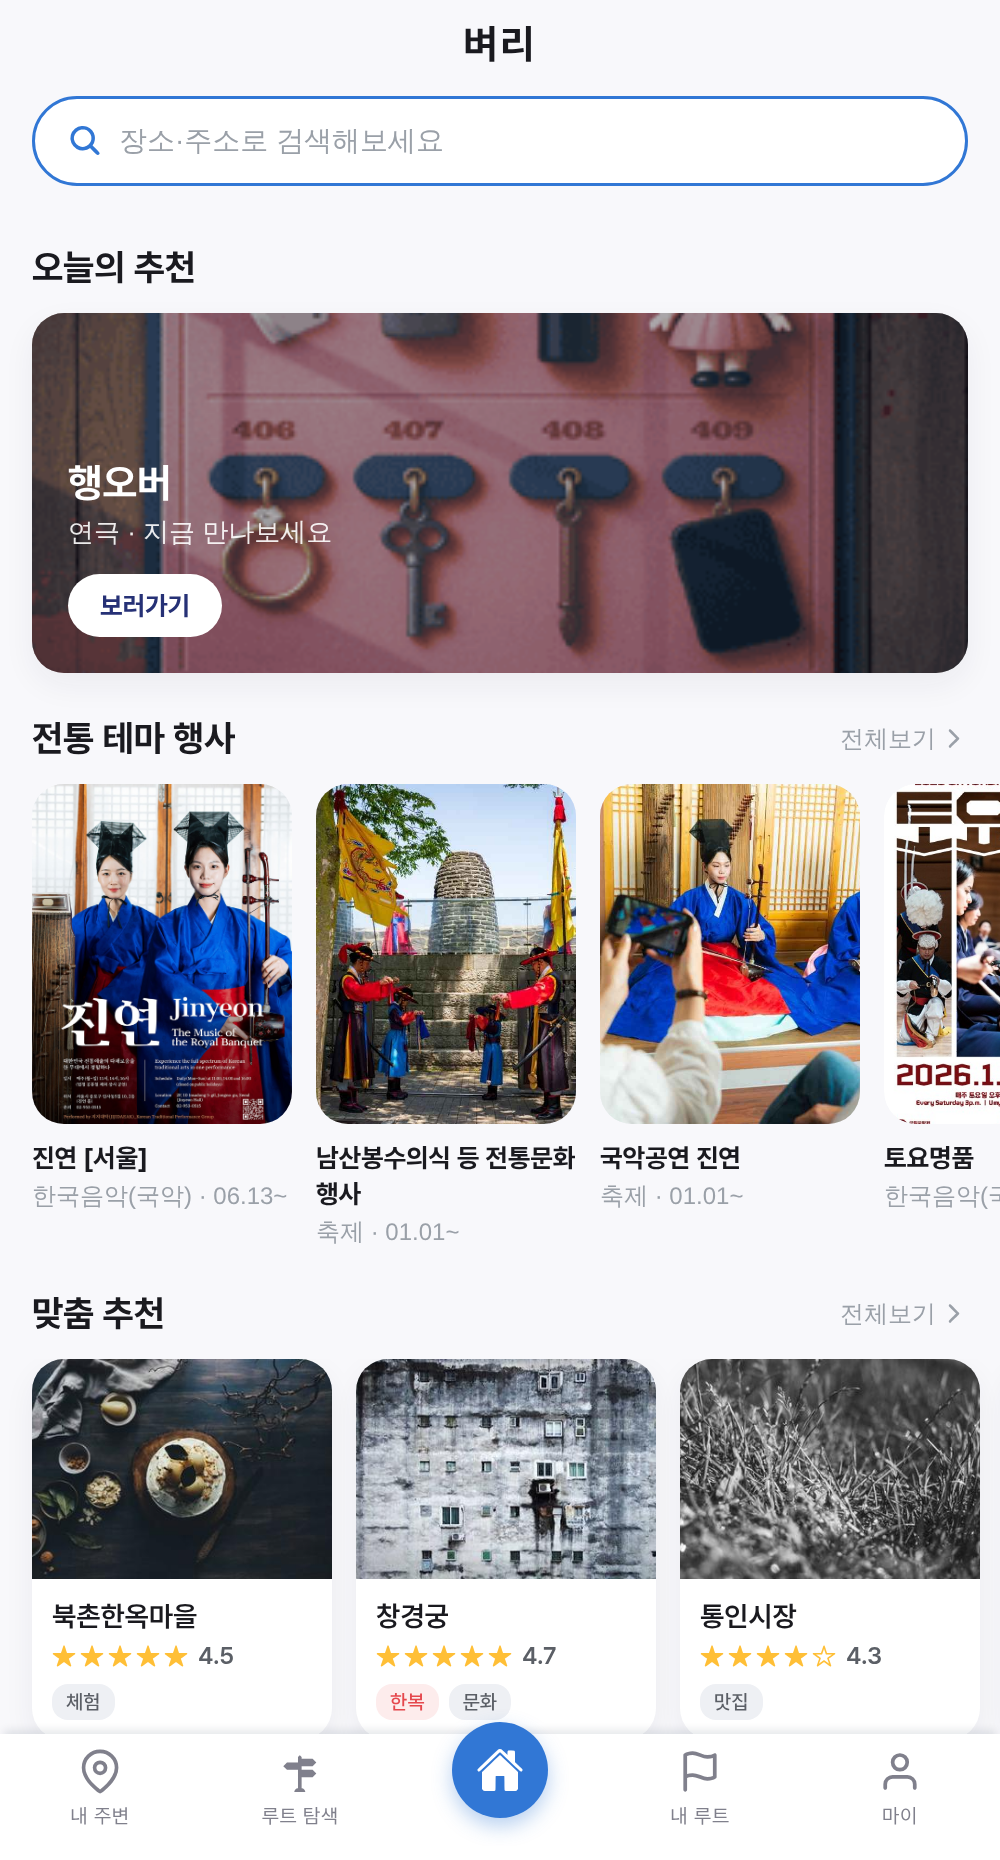
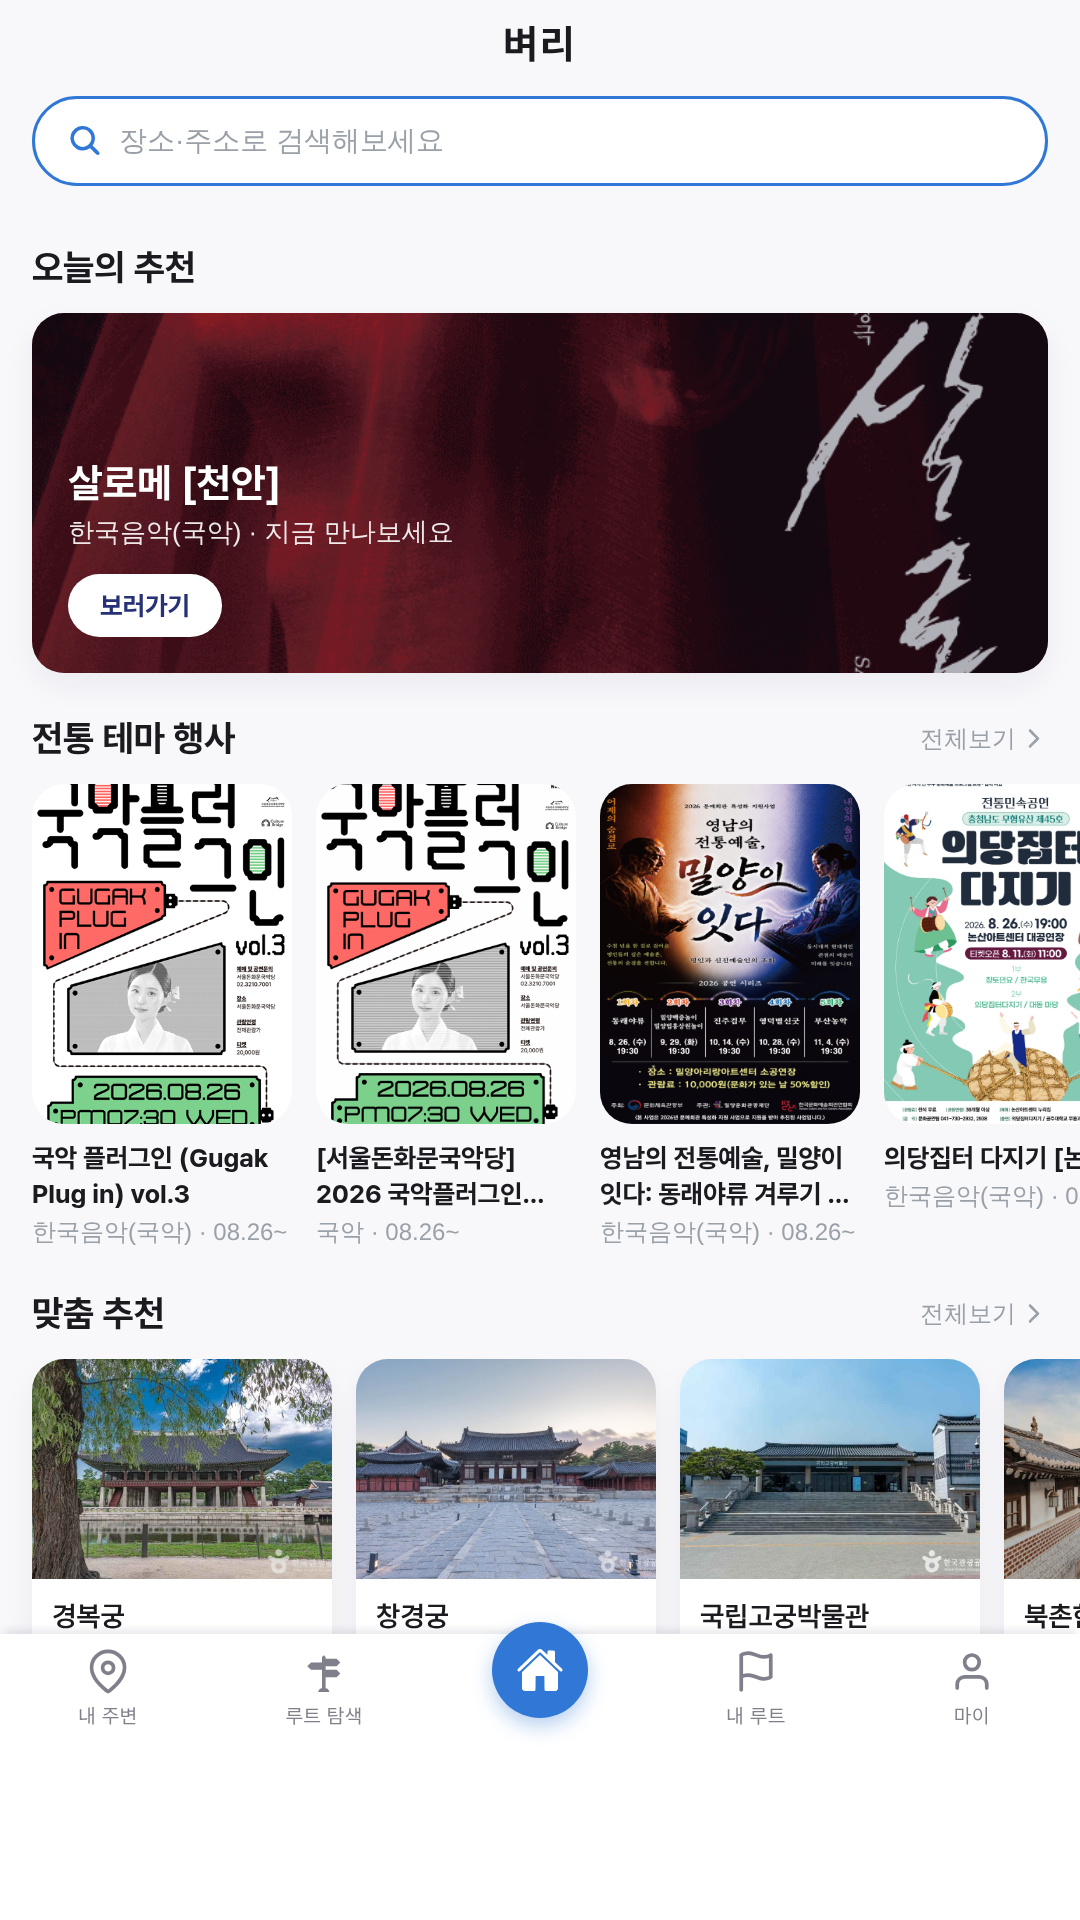
fix: 운영에 남아 있던 개발용 더미 데이터 제거 + 스토어 자산 규격 교정 (#21)
* fix: 운영 DB에 남아 있던 개발용 더미 데이터 제거

`V2__seed.sql`의 개발용 시드가 Flyway로 운영까지 적용돼 사용자에게
사실이 아닌 값이 보이고 있었다.

- 평점·리뷰 수: 경복궁 4.8/1320, 창경궁 4.7/860 등 근거 없는 숫자.
  실제 `reviews`에는 2건뿐이라, 사용자가 리뷰를 하나 쓰면
  `ReviewService.recalc()`가 실제값으로 덮어써 1320 → 1 로 급락했다.
- 이미지: `picsum.photos` 랜덤 스톡. 창경궁 자리에 콘크리트 건물,
  북촌한옥마을에 음식 사진이 뜨는 식으로 실제 장소와 무관했다.

V14 값 정리 / V15 실제 사진 연결 / V16 코스 대표 사진으로 나눴다.
시드 행 자체는 지우지 않는다 — 사용자의 여행일정 19건·즐겨찾기·리뷰가
이미 참조하고 있어 삭제하면 그 데이터가 함께 날아간다. 같은 장소의
TourAPI 행이 이미 갖고 있는 한국관광공사 사진을 연결해 주는 데 그친다.

더미를 걷어내자 그 값에 기대 채워져 있던 화면들이 드러나 함께 고쳤다.

- `Rating`: 리뷰가 없을 때 빈 별 5개 + "0.0"이 뜨던 것을 "아직 평가 없음"으로.
  평점이 낮다는 뜻으로 읽히던 표시였다.
- 지도 마커: 평점이 없으면 "0.0" 대신 카테고리를 보여준다.
- `VenueRepository.search` / `PerformanceRepository.search`: `order by`가
  없어 페이지 간 중복·누락이 생길 수 있었다. 사진(포스터) 있는 것 →
  평점·최근 순으로 고정하고 id로 동점을 깬다.
- 홈 배너: 전통문화 앱인데 클래식 공연이 대문에 걸렸다. 전통 행사를
  우선 노출하고, 진행 중인 게 없을 때만 일반 공연으로 대체한다.
  배너에 건 공연이 바로 아래 목록에 또 나오던 중복도 제거.

Claude-Session: https://claude.ai/code/session_0189LLCe4HXZJT526WbUcYHm

* chore(store): 스토어 자산 규격 교정 및 재생성

Play Console 등록정보 화면이 요구하는 규격에 맞지 않았다.

- 스크린샷 1000×1860(비율 1:1.86) → **1080×1920**. Play는 16:9 또는
  9:16만 받고, 프로모션 자격에는 각 변 1,080px 이상 4장이 필요하다.
  1000px라 8px 모자랐다.
- 앱 아이콘 512×512 추가. 필수 항목인데 없었다.
- 그래픽 이미지: 기기 틀 안쪽 비율이 화면과 달라 `object-fit:cover`가
  앱 화면 위아래를 잘라냈고, `rotate`가 바운딩 박스를 키워 기기가
  캔버스 밖으로 삐져나갔다. 틀을 9:16으로 맞추고 회전을 없애
  세 대 모두 화면 전체가 캔버스 안에 들어오게 했다.

스크린샷은 더미 데이터를 걷어낸 뒤 다시 찍은 것이라 실제 사진과
"아직 평가 없음" 표시가 반영돼 있다.
[…]

diff --git a/docs/store/feature-graphic.html b/docs/store/feature-graphic.html
@@ -34,7 +34,7 @@
   .wrap { position:relative; height:100%; display:flex; align-items:center; }
 
   /* ── 좌측 카피 ── */
-  .left { width:474px; padding-left:66px; }
+  .left { width:430px; padding-left:60px; }
   .brandrow { display:flex; align-items:center; gap:16px; margin-bottom:16px; }
   .icon { width:66px; height:66px; border-radius:19px; object-fit:cover;
     box-shadow:0 8px 20px rgba(31,38,76,.18); }
@@ -49,17 +49,20 @@
     border-radius:999px; padding:8px 15px; white-space:nowrap; }
   .chip.hot { color:#fff; background:#263176; border-color:#263176; }
 
-  /* ── 우측 단말 ── */
-  .phones { position:absolute; left:498px; top:0; width:526px; height:500px; }
-  .ph { position:absolute; border-radius:30px; background:#0E1330;
-    padding:7px; box-shadow:0 24px 48px rgba(23,29,66,.30); }
-  .ph img { display:block; border-radius:24px; width:100%; height:100%; object-fit:cover;
-    object-position:top center; }
+  /* ── 우측 단말 ──
+     핵심: 기기 안쪽 영역의 비율을 스크린샷과 똑같이 9:16으로 맞춘다.
+     그래야 object-fit:cover가 잘라내는 부분 없이 앱 화면 전체를 보여준다.
+     (이전 판은 4:5 남짓한 틀에 세로로 긴 화면을 끼워 넣어 위아래가 잘렸다.)
+     회전도 쓰지 않는다 — 회전은 바운딩 박스를 키워 캔버스 밖으로 삐져나갔다. */
+  .phones { position:absolute; left:0; top:0; width:1024px; height:500px; }
+  .ph { position:absolute; border-radius:26px; background:#0E1330;
+    padding:6px; box-shadow:0 20px 44px rgba(23,29,66,.28); }
+  .ph img { display:block; border-radius:20px; width:100%; height:100%; object-fit:cover; }
 
-  /* 겹쳐 배치 — 가운데를 가장 크고 앞에 */
-  .p1 { width:180px; height:366px; left:6px;   top:70px; transform:rotate(-9deg);   z-index:1; }
-  .p2 { width:206px; height:418px; left:160px; top:41px; transform:rotate(-1.5deg); z-index:3; }
-  .p3 { width:180px; height:366px; left:322px; top:66px; transform:rotate(7deg);    z-index:2; }
+  /* 셋 다 캔버스 안에 완전히 들어온다(top ≥ 43, bottom ≤ 457, right ≤ 995). */
+  .p1 { width:206px; height:357px; left:505px; top:71px; z-index:1; }
+  .p2 { width:238px; height:414px; left:631px; top:43px; z-index:3; }
+  .p3 { width:206px; height:357px; left:789px; top:71px; z-index:2; }
 </style>
 </head>
 <body>

diff --git a/apps/app/src/app/(tabs)/index.tsx b/apps/app/src/app/(tabs)/index.tsx
@@ -23,7 +23,10 @@ export default function HomeScreen() {
   const [keyword, setKeyword] = useState('전체');
   const [region, setRegion] = useState('전체');
 
-  const banner = usePerformancesQuery({ state: 'ONGOING', size: 5 });
+  // 배너 — 앱 성격에 맞게 전통 행사를 먼저 걸고, 진행 중인 게 없을 때만 일반 공연으로 대체.
+  const bannerTrad = usePerformancesQuery({ state: 'ONGOING', traditional: true, size: 5 });
+  const bannerAny = usePerformancesQuery({ state: 'ONGOING', size: 5 });
+  const banner = bannerTrad.data?.content.length ? bannerTrad : bannerAny;
   // 전통 테마 행사 — 진행 중 우선, 없으면 예정으로 대체
   const tradOngoing = usePerformancesQuery({ traditional: true, state: 'ONGOING', size: 10 });
   const tradUpcoming = usePerformancesQuery({ traditional: true, state: 'UPCOMING', size: 10 });
@@ -33,6 +36,8 @@ export default function HomeScreen() {
   const all = useVenuesQuery({ size: 50 });
 
   const top = banner.data?.content?.[0];
+  // 배너에 건 공연이 바로 아래 목록 첫 칸에 또 나오면 같은 포스터가 두 번 보인다.
+  const traditionalItems = (traditional.data?.content ?? []).filter((p) => p.id !== top?.id);
   const regionVenues = useMemo(() => {
     const list = all.data?.content ?? [];
     return (region === '전체' ? list : list.filter((v) => v.address?.includes(region))).slice(0, 4);
@@ -71,8 +76,8 @@ export default function HomeScreen() {
           <SectionHeader title="전통 테마 행사" onMore={() => router.push('/performances/traditional')} />
           {traditional.isLoading
             ? <Loading />
-            : (traditional.data?.content.length
-              ? <PerformanceRow items={traditional.data.content} onPress={(p) => {
+            : (traditionalItems.length
+              ? <PerformanceRow items={traditionalItems} onPress={(p) => {
                   if (p.venueId) router.push(`/venue/${p.venueId}`);
                   else if (p.externalBookingUrl) WebBrowser.openBrowserAsync(p.externalBookingUrl);
                 }} />

diff --git a/apps/app/src/components/Rating.tsx b/apps/app/src/components/Rating.tsx
@@ -5,6 +5,10 @@ import { colors, fonts } from '@/lib/theme';
 // 골드 별 5개 + 평점 숫자 (Figma 리디자인)
 export function Rating({ value, count, size = 12 }: { value: number; count?: number; size?: number }) {
   const v = Number(value) || 0;
+  // 리뷰가 없으면 빈 별 5개 + "0.0"이 뜬다. 평점이 낮다는 뜻으로 오해되므로 상태를 그대로 쓴다.
+  if (count === 0 || (count == null && v <= 0)) {
+    return <Text style={[styles.empty, { fontSize: size }]}>아직 평가 없음</Text>;
+  }
   const full = Math.round(v);
   return (
     <View style={styles.row}>
@@ -21,4 +25,5 @@ const styles = StyleSheet.create({
   row: { flexDirection: 'row', alignItems: 'center', gap: 2 },
   value: { fontFamily: fonts.semibold, fontWeight: '600', color: colors.textSub, marginLeft: 3 },
   count: { fontSize: 11, color: colors.textFaint, marginLeft: 2 },
+  empty: { color: colors.textFaint },
 });

diff --git a/apps/app/src/components/VenueCard.tsx b/apps/app/src/components/VenueCard.tsx
@@ -18,7 +18,7 @@ export function VenueCard({ venue, width = '48.5%' }: { venue: Venue; width?: Di
       <Image source={sized(venue.imageUrl, 360, 240)} style={styles.img} contentFit="cover" transition={200} cachePolicy="memory-disk" recyclingKey={String(venue.id)} />
       <View style={styles.body}>
         <Text style={styles.name} numberOfLines={1}>{venue.name}</Text>
-        <Rating value={venue.avgRating} />
+        <Rating value={venue.avgRating} count={venue.reviewCount} />
         {tags.length > 0 && (
           <View style={styles.tags}>
             {tags.slice(0, 2).map((t) => (

diff --git a/apps/app/src/app/(tabs)/map.tsx b/apps/app/src/app/(tabs)/map.tsx
@@ -419,7 +419,10 @@ export default function MapScreen() {
                 onPress={() => setSelected(v)}
               >
                 <Text style={styles.pinText}>
-                  {Number(v.avgRating).toFixed(1)}
+                  {/* 리뷰가 없으면 "0.0"만 깔려 정보가 없다. 그럴 땐 카테고리를 보여준다. */}
+                  {v.reviewCount > 0
+                    ? Number(v.avgRating).toFixed(1)
+                    : v.category || '·'}
                 </Text>
               </Pressable>
             ))}

diff --git a/apps/api/src/main/java/com/byeori/domain/venue/VenueRepository.java b/apps/api/src/main/java/com/byeori/domain/venue/VenueRepository.java
@@ -18,12 +18,19 @@ public interface VenueRepository extends JpaRepository<Venue, Long> {
 
     java.util.Optional<Venue> findByTourContentId(String tourContentId);
 
+    /**
+     * 정렬이 없으면 DB가 돌려주는 순서가 임의라 페이지 간 중복·누락이 생기고,
+     * 홈의 "맞춤 추천"에 사진 없는 장소가 먼저 뜨기도 한다.
+     * 사진 있는 것 → 평점 높은 것 → 리뷰 많은 것 순으로 고정하고, 마지막에 id로 동점을 깬다.
+     */
     @Query("""
             select v from Venue v
             where v.status = 'ACTIVE' and v.visibility = 'PUBLIC'
               and (:category is null or v.category = :category)
               and (:hanbokDiscount is null or v.hanbokDiscount = :hanbokDiscount)
               and (:keyword is null or v.name like %:keyword%)
+            order by case when v.imageUrl is null or v.imageUrl = '' then 1 else 0 end,
+                     v.avgRating desc, v.reviewCount desc, v.id asc
             """)
     Page<Venue> search(@Param("category") String category,
                        @Param("hanbokDiscount") Boolean hanbokDiscount,

diff --git a/apps/api/src/main/java/com/byeori/domain/performance/PerformanceRepository.java b/apps/api/src/main/java/com/byeori/domain/performance/PerformanceRepository.java
@@ -21,6 +21,7 @@ public interface PerformanceRepository extends JpaRepository<Performance, Long> 
     @Query("update Performance p set p.avgRating = :avg, p.reviewCount = :cnt where p.id = :id")
     void updateRating(@Param("id") Long id, @Param("avg") BigDecimal avg, @Param("cnt") int cnt);
 
+    /** 정렬 미지정이면 페이지 간 중복·누락이 생긴다. 포스터 있는 것 → 최근 시작 순으로 고정한다. */
     @Query("""
             select p from Performance p
             where (:state is null or p.state = :state)
@@ -28,6 +29,8 @@ public interface PerformanceRepository extends JpaRepository<Performance, Long> 
               and (:venueId is null or p.venueId = :venueId)
               and (:keyword is null or p.title like %:keyword%)
               and (:traditional is null or p.traditional = :traditional)
+            order by case when p.posterImageUrl is null or p.posterImageUrl = '' then 1 else 0 end,
+                     p.startDate desc, p.id asc
             """)
     Page<Performance> search(@Param("state") String state,
                              @Param("genre") String genre,
